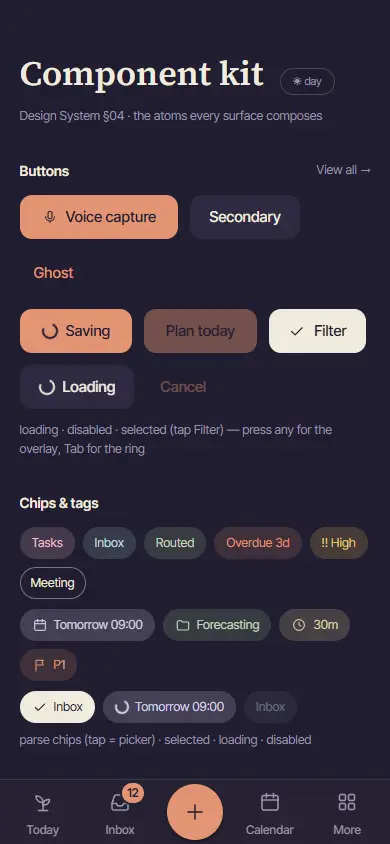
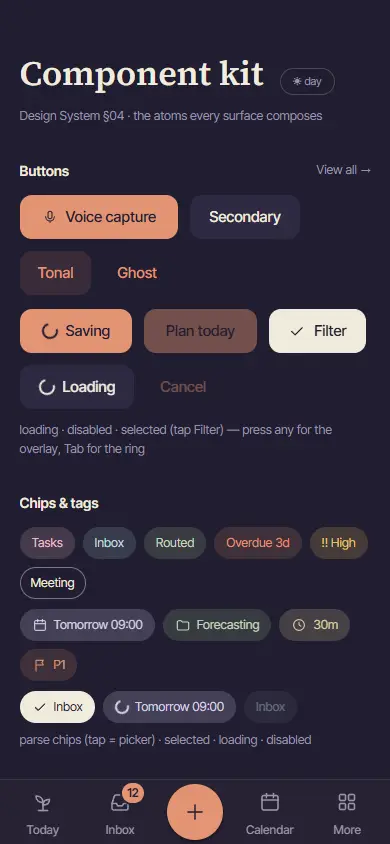
feat(kit): D13 tonal button — B's shape in the soft terra wash (--wash-terra, terra at 12%, day + Night Garden) with terra ink; the terra text button's hover / pressed fill; empty-state suggestions use it
Kai approved D13 on 16 Oct ("C inside B · tonal"). New token --wash-terra in the app and ds-bound
tokens + README. Kit test (render) and kit-sheets harness checks (computed fill, ink, 12px, flat,
the ghost button pressed). Call sites in other areas (Replan all, a row's Plan) are left to the
conductor.

Changed region(s): [[0.0308, 0.2773, 0.2154, 0.3697], [0.3077, 0.3081, 0.4, 0.3389], [0.1231, 0.3697, 0.1538, 0.4005]]

diff --git a/app/src/components/kit.css b/app/src/components/kit.css
@@ -106,6 +106,23 @@ button.kf-press {
   color: var(--acc-terra-ink); /* D11 = B */
   padding: 9px 6px;
 }
+/* D13 (Kai 2026-10-16, "C inside B · tonal"): B's shape filled with the soft terra wash — a second
+   action that matters but isn't the view's one terra action (an empty state's suggestion). */
+.kf-button--tonal {
+  border: none;
+  background-color: var(--wash-terra);
+  color: var(--acc-terra-ink);
+  padding: 9px 16px;
+}
+/* D13: the terra text button's hover and pressed fill is the same wash. */
+@media (hover: hover) {
+  .kf-button--ghost:not(:disabled):hover {
+    background-color: var(--wash-terra);
+  }
+}
+.kf-button--ghost:not(:disabled):active {
+  background-color: var(--wash-terra);
+}
 
 /* ── Chip ── desktop keeps its inline-text box; a glyph (icon / check / spinner) needs a flex box. */
 .kf-chip {
@@ -269,7 +286,8 @@ button.kf-chip {
   }
   .kf-button::after { content: ''; position: absolute; inset: -2px 0; }
   .kf-button--cta { padding: 0 22px; }
-  .kf-button--secondary { padding: 0 18px; }
+  .kf-button--secondary,
+  .kf-button--tonal { padding: 0 18px; }
   .kf-button--ghost { padding: 0 14px; }
 
   .kf-chip {

diff --git a/app/src/components/States.tsx b/app/src/components/States.tsx
@@ -53,14 +53,15 @@ export function Skeleton({ variant = 'rows', rows = 4 }: { variant?: 'rows' | 'c
   )
 }
 
-/** The surface's species at its zero stage (≈120 wide), one line, at most one secondary action. */
+/** The surface's species at its zero stage (≈120 wide), one line, at most one suggestion — the tonal
+ * button (D13), so it never competes with the view's one terra action. */
 export function EmptyState({ image = '/ds/assets/hydrangea/zero.png', line, action }: { image?: string; line: ReactNode; action?: { label: string; onClick: () => void } }) {
   return (
     <div style={{ display: 'flex', flexDirection: 'column', alignItems: 'center', gap: 16, padding: '32px 24px', textAlign: 'center' }}>
       <img src={image} alt="" style={{ width: 120, height: 'auto', filter: 'var(--shadow-drop-sm)' }} />
       <div style={{ fontSize: 16, lineHeight: 1.45, color: 'var(--ink-muted)', textWrap: 'pretty' }}>{line}</div>
       {action && (
-        <Button variant="secondary" onClick={action.onClick}>
+        <Button variant="tonal" onClick={action.onClick}>
           {action.label}
         </Button>
       )}

diff --git a/app/src/components/kit.test.tsx b/app/src/components/kit.test.tsx
@@ -1,0 +1,21 @@
+import { renderToStaticMarkup } from 'react-dom/server'
+import { describe, expect, it } from 'vitest'
+import { Button } from './kit'
+import { EmptyState } from './States'
+
+// D13 (Kai 2026-10-16, Design System B "C inside B · tonal"): B's shape filled with the soft terra
+// wash (--wash-terra) in terra ink. The computed fill, ink, corner and the terra text button's
+// pressed wash are checked in the browser: docs/log/assets/kit-sheets/verify.mjs ("tonal").
+describe('kit Button · tonal (D13)', () => {
+  it('renders the tonal variant on the kit button', () => {
+    const html = renderToStaticMarkup(<Button variant="tonal">Replan all</Button>)
+    expect(html).toContain('kf-button kf-button--tonal')
+    expect(html).toContain('Replan all')
+  })
+
+  it('an empty state’s suggestion is the tonal button, never a second terra CTA', () => {
+    const html = renderToStaticMarkup(<EmptyState line="Nothing here yet" action={{ label: 'Add one', onClick: () => {} }} />)
+    expect(html).toContain('kf-button--tonal')
+    expect(html).not.toContain('kf-button--cta')
+  })
+})

diff --git a/app/src/components/kit.tsx b/app/src/components/kit.tsx
@@ -16,7 +16,9 @@ import './kit.css'
 
 // ── Button — one terra CTA per view (§04) ──
 type ButtonProps = ButtonHTMLAttributes<HTMLButtonElement> & {
-  variant?: 'cta' | 'secondary' | 'ghost'
+  /** cta = the view's one terra action · secondary = bone tone · tonal = the terra wash (D13: a second
+   * action that matters) · ghost = the terra text button. */
+  variant?: 'cta' | 'secondary' | 'tonal' | 'ghost'
   icon?: ReactNode
   /** 16px ring spinner in place of the icon, presses blocked; pass the in-progress label ("Saving"). */
   loading?: boolean

diff --git a/design-export/ds-bound/tokens/colors.css b/design-export/ds-bound/tokens/colors.css
@@ -87,6 +87,9 @@
   --sel-bg:             var(--ink-body);     /* selected chip, segment, date */
   --sel-ink:            var(--paper-linen);
   --tab-active-bg:      var(--paper-bone);   /* soft pill behind the active tab icon */
+  /* NEW · D13 (Kai 2026-10-16): the soft terra wash — the tonal button's fill, and the terra text
+     button's hover / pressed fill. = color-mix(in srgb, var(--acc-terra) 12%, transparent). */
+  --wash-terra:         rgba(181, 101, 74, 0.12);
 
   /* Interaction colour roles */
   --on-terra:           #FBF6E9;

diff --git a/app/src/components/KitReference.tsx b/app/src/components/KitReference.tsx
@@ -57,6 +57,7 @@ export function KitReference() {
           <Row>
             <Button variant="cta" icon={<Icon name="mic" size={16} />}>Voice capture</Button>
             <Button variant="secondary">Secondary</Button>
+            <Button variant="tonal">Tonal</Button>
             <Button variant="ghost">Ghost</Button>
           </Row>
           <Row>

diff --git a/design-export/ds-bound/tokens/colors.dark.css b/design-export/ds-bound/tokens/colors.dark.css
@@ -100,6 +100,7 @@
   --sel-bg:             var(--ink-body);
   --sel-ink:            #211D30;
   --tab-active-bg:      var(--paper-bone);
+  --wash-terra:         rgba(226, 148, 115, 0.12);   /* D13 · night terra at 12% */
 
   /* NEW · Interaction colour roles */
   --on-terra:           #211D30;   /* violet ink on firefly-terra 6.79 */

diff --git a/app/src/styles/tokens/colors.css b/app/src/styles/tokens/colors.css
@@ -103,6 +103,7 @@
   --sel-bg: var(--ink-body);
   --sel-ink: var(--paper-linen);
   --tab-active-bg: var(--paper-bone);
+  --wash-terra: rgba(181, 101, 74, 0.12); /* D13 (Kai 2026-10-16): --acc-terra at 12% — the tonal button, the terra text button pressed */
   --bg-page: var(--page-paper);
   --border-page: var(--page-line);
 

diff --git a/app/src/styles/tokens/colors.dark.css b/app/src/styles/tokens/colors.dark.css
@@ -20,6 +20,7 @@
   --sel-bg: var(--ink-body);
   --sel-ink: #211D30;
   --tab-active-bg: var(--paper-bone);
+  --wash-terra: rgba(226, 148, 115, 0.12); /* D13: night terra at 12% */
   --bg-page: var(--page-paper);
   --border-page: var(--page-line);
   --grain-app: 0;

diff --git a/design-export/ds-bound/README.md b/design-export/ds-bound/README.md
@@ -3,7 +3,7 @@
 A copy of `../ds/` with **direction B, Bound Journal**, applied (chosen by Kai, 2026-10-14). The original `../ds/` and the app (`app/src/styles/tokens/`) are untouched.
 
 - **Look at it:** open `preview.html`. Day and Night Garden sit side by side, built only from these tokens. If the fonts or the flower don't load, serve the folder: `python -m http.server 8768 --directory design-export`, then open `http://localhost:8768/ds-bound/preview.html`.
-- **Use it:** load `ds-bound/styles.css` instead of `ds/styles.css`. **Every token name from `ds/` still exists**, so nothing that reads them breaks. 20 tokens are new.
+- **Use it:** load `ds-bound/styles.css` instead of `ds/styles.css`. **Every token name from `ds/` still exists**, so nothing that reads them breaks. 21 tokens are new.
 - **Check it:** `python check_contrast.py`. Every text token is at least 4.5:1 and every line or control at least 3:1 on every ground, day and Night Garden (all pass). It also runs against any token folder: `python check_contrast.py ../ds/tokens`.
 - **Background:** `D:\Coding\_claude-cloud\kais-flow-design-brainstorm-2026-10-14\NOTES.md`.
 
@@ -72,7 +72,7 @@ The paper stays `ds/`'s warm cream: canvas `#EFE9DB`, surfaces `#FBF6E9`, bone `
 | `--fs-meta` / `--fs-meta-l` (phone) | `12px` / `12.5px` | `12.5px` / `13px` |
 | Unchanged | | Source Serif 4, Inter Tight and Caveat; desktop sizes; mono sizes; Caveat sizes |
 
-**New tokens (19):** `--page-paper`, `--page-line`, `--page-rule`, `--bg-page`, `--border-page`, `--sel-bg`, `--sel-ink`, `--tab-active-bg`, `--radius-card`, `--radius-page`, `--radius-block` (12px, calendar blocks and time slots), `--radius-check` (7px), `--shadow-page`, `--grain-app` (0), `--grain-page` (1 by day, 0 at night), `--font-stamp`, `--ls-stamp`, `--fs-section` (14px), `--ls-eyebrow` (0.08em).
+**New tokens (20):** `--wash-terra` (D13: the soft terra wash, day `rgba(181, 101, 74, 0.12)` · night `rgba(226, 148, 115, 0.12)` — `--acc-terra` at 12%), `--page-paper`, `--page-line`, `--page-rule`, `--bg-page`, `--border-page`, `--sel-bg`, `--sel-ink`, `--tab-active-bg`, `--radius-card`, `--radius-page`, `--radius-block` (12px, calendar blocks and time slots), `--radius-check` (7px), `--shadow-page`, `--grain-app` (0), `--grain-page` (1 by day, 0 at night), `--font-stamp`, `--ls-stamp`, `--fs-section` (14px), `--ls-eyebrow` (0.08em).
 
 **Not changed:** `fonts.css`, `motion.css`, `motion-interactions.css`, `icons/`.
 
@@ -102,3 +102,5 @@ Approved: D1 tools and pages · D2 colour unchanged · D3 rounded tools, near-sq
 Denied: D9 — the capture button stays 56px with its terra shadow (`--shadow-capture`).
 
 D11 buttons: **B** — 12px corners, 44px drawn (48 hit on the phone), flat; secondary is a bone tone with no outline; the text button is terra. Kai liked C too: D13 proposes it as the tonal tier (open).
+
+D13, approved (Kai, 2026-10-16): **C inside B · tonal**. B stays the button; the kit's `Button variant="tonal"` (`.kf-button--tonal`) is B's shape filled with `--wash-terra` in `--acc-terra-ink`, for an action that matters but isn't the view's one terra action (an empty state's suggestion; the conductor moves Replan all and a row's Plan ▾ onto it). The same wash is the terra text button's hover and pressed fill.
